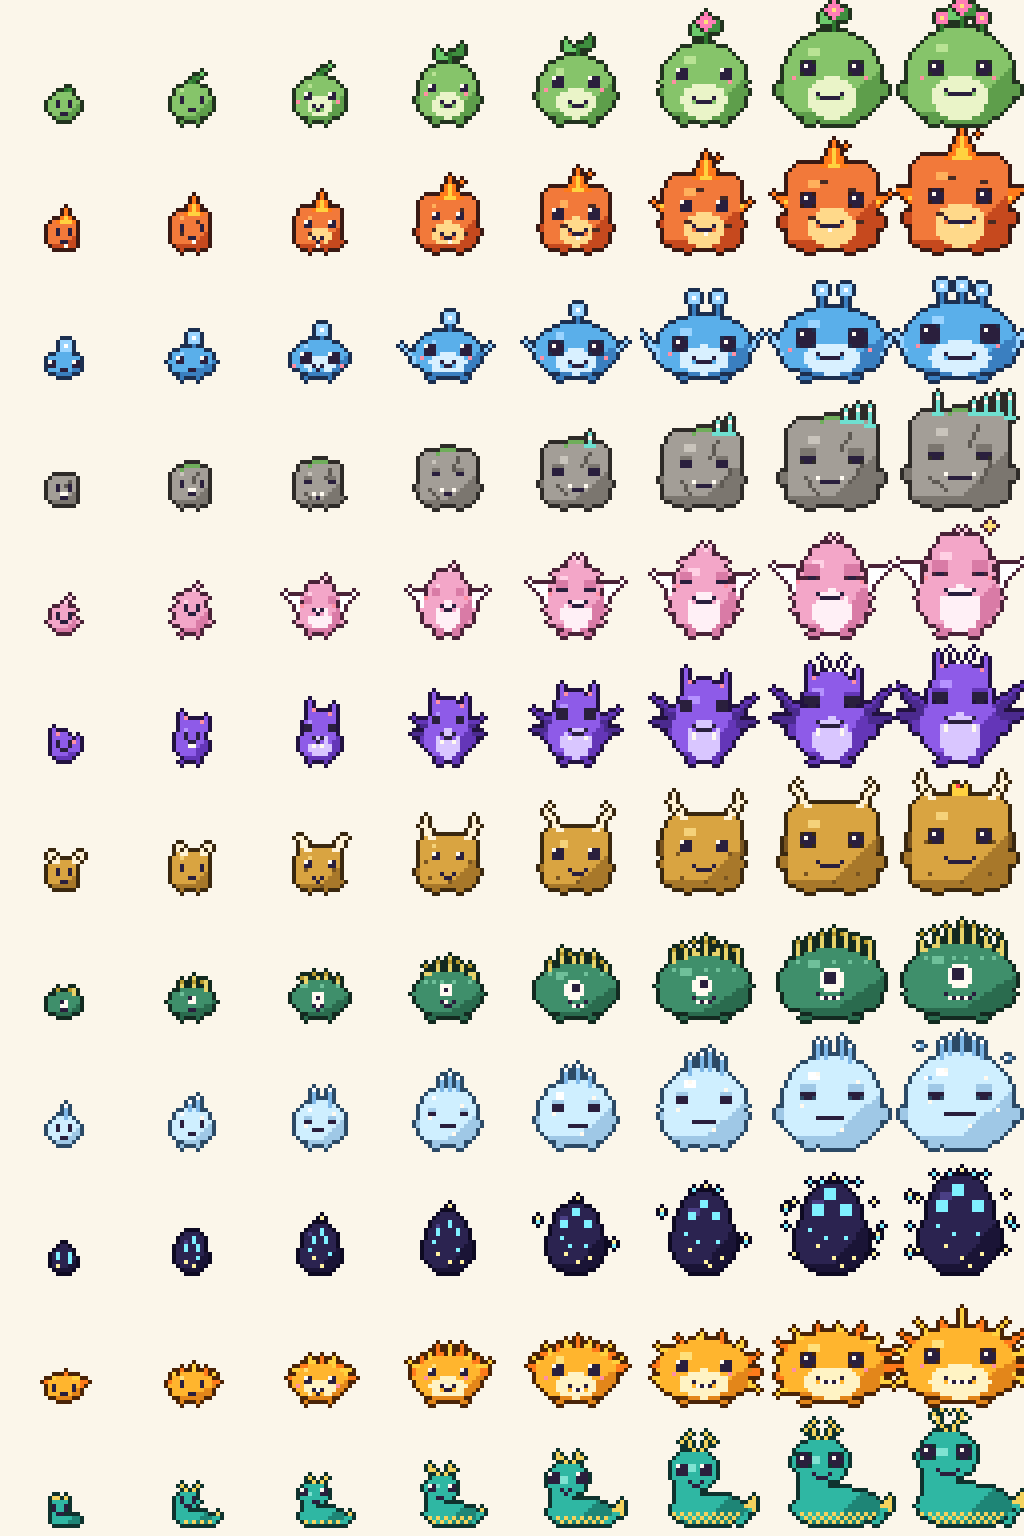
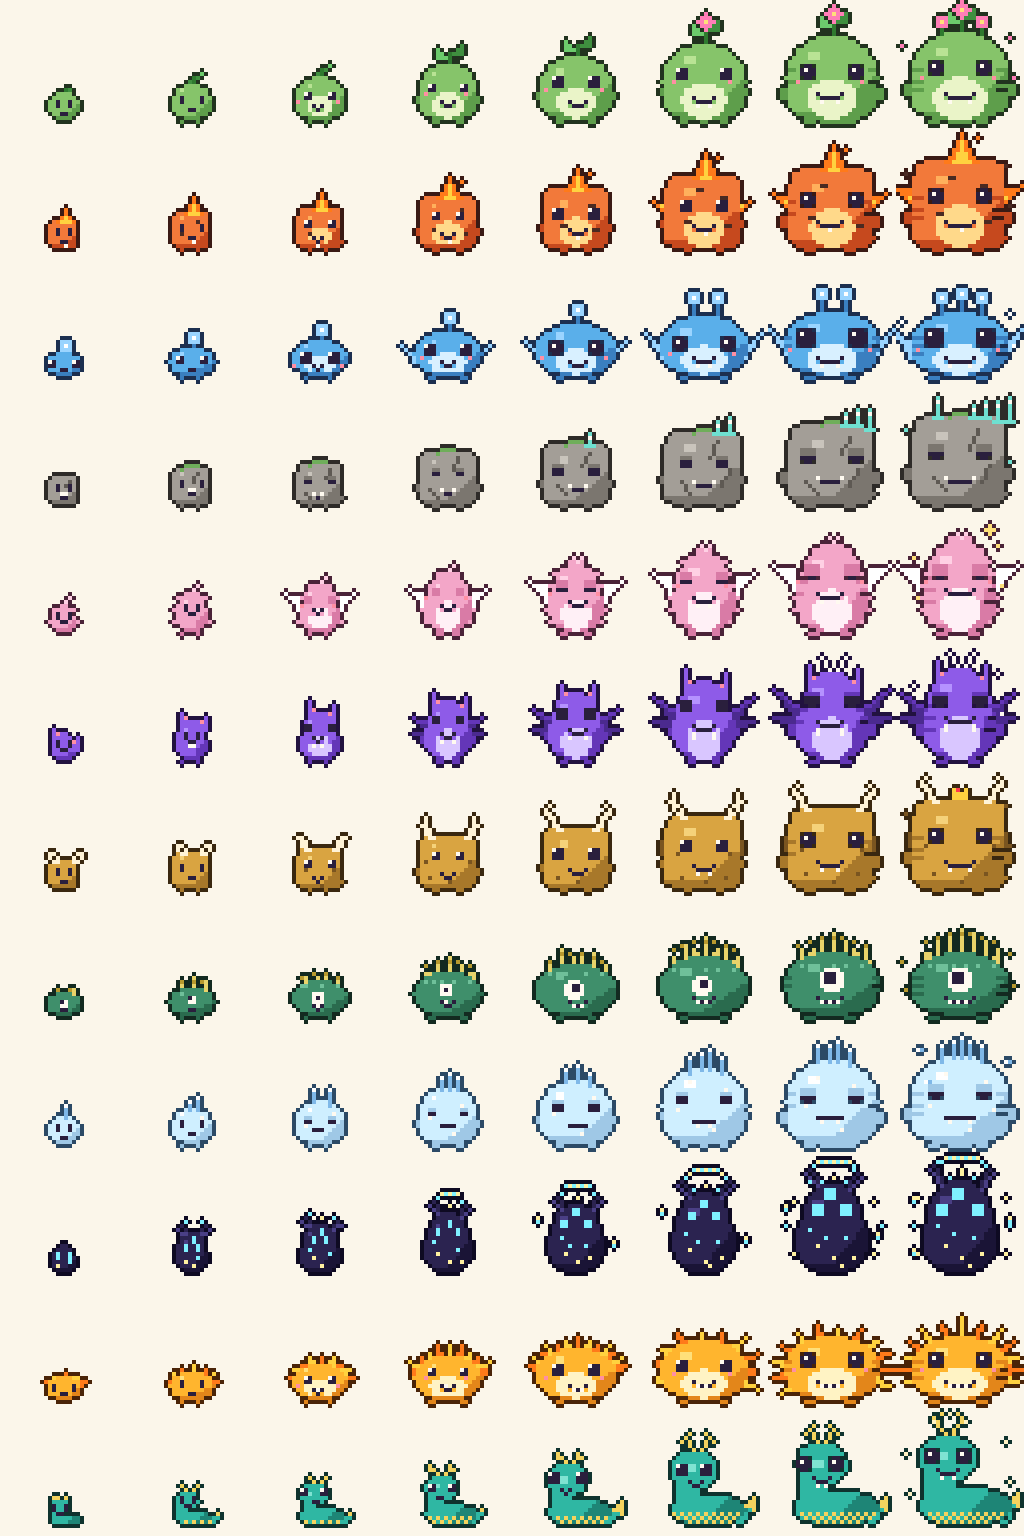
Art: late stages earn stripes, teeth and sparks; Voidling gets horns and a halo; big monsters stay in frame
Claude-Session: https://claude.ai/code/session_013R4m7pZapHsz5H48KLp8S1

diff --git a/art/generate.py b/art/generate.py
@@ -116,11 +116,11 @@ class Grid:
 # ---------------------------------------------------------------- bodies
 
 WIDTH = {
-    "blob":  [8, 10, 12, 15, 18, 21, 24, 26],
-    "chunk": [7, 9, 11, 14, 16, 19, 22, 24],
-    "tall":  [6, 8, 10, 12, 14, 16, 18, 20],
-    "wide":  [9, 11, 14, 17, 20, 23, 26, 28],
-    "wyrm":  [7, 9, 11, 13, 16, 19, 22, 24],
+    "blob":  [8, 10, 12, 15, 18, 21, 23, 25],
+    "chunk": [7, 9, 11, 14, 16, 19, 21, 23],
+    "tall":  [6, 8, 10, 12, 14, 16, 18, 19],
+    "wide":  [9, 11, 14, 17, 20, 22, 24, 25],
+    "wyrm":  [7, 9, 11, 13, 16, 19, 21, 23],
 }
 HEIGHT_F = {"blob": 0.9, "chunk": 0.95, "tall": 1.22, "wide": 0.66, "wyrm": 1.0}
 
@@ -240,8 +240,8 @@ def behind(g, sp, body, s, pal):
         for side in (-1, 1):
             ex = (L - 1) if side < 0 else (R + 1)
             g.tri(ex, mid - k, ex + side * (k + 1), mid - k - 1, ex, mid + 1, f)
-    if sp == "gloomfang" and s >= 4:                     # bat wings
-        k = 3 + (s - 4)
+    if sp == "gloomfang" and s >= 4:                     # bat wings, kept inside the frame
+        k = min(3 + (s - 4), int(body.left) - 1)
         for side in (-1, 1):
             ex = (L + 1) if side < 0 else (R - 1)
             tipx = ex + side * (k + 1)
@@ -414,6 +414,19 @@ def on_top(g, sp, body, s, pal):
                 g.set(hx + dx, t + dy, f2)
                 g.set(hx + dx + 1, t + dy, f)
     elif sp == "voidling":
+        if s >= 2:                                      # crescent horns
+            k = 1 + s // 2
+            for side in (-1, 1):
+                ex = hx + side * max(1, int(w * 0.22))
+                ey = body.head_top(ex)
+                g.line(ex, ey, ex + side * (k // 2 + 1), ey - k, pal["base"])
+                g.line(ex + side, ey, ex + side * (k // 2 + 2), ey - k + 1, pal["light"])
+                g.set(ex + side * (k // 2), ey - k - 1, f)
+        if s >= 4:                                      # a halo
+            r = max(2, int(w * 0.3))
+            for dx in range(-r, r + 1):
+                if abs(dx) != r or s >= 6:
+                    g.set(hx + dx, ht - 3 - (1 if abs(dx) < r else 0) - s // 3, f2 if dx % 2 == 0 else f)
         if s >= 5:
             orbs = [(-1, 0.25), (1, 0.6)] if s < 8 else [(-1, 0.2), (1, 0.45), (-1, 0.8)]
             for side, fr in orbs:
@@ -705,6 +718,9 @@ def draw_face(g, sp, body, s, mood, pal):
         if mk == "underbite":
             g.set(mx, base_y - 1, WHITE)
             g.set(mx + mw - 1, base_y - 1, WHITE)
+        if s >= 6 and mk in ("smile", "flat") and mw >= 5:      # big ones show a little tooth
+            g.set(mx + 1, base_y + 1, WHITE)
+            g.set(mx + mw - 2, base_y + 1, WHITE)
         if mk == "grin" and mw >= 3:
             for i in range(1, mw - 1, 2):
                 g.set(mx + i, base_y - 1 if mw < 5 else base_y, WHITE)
@@ -752,6 +768,28 @@ def to_feral(g, pal):
                 g.px[y][x] = d
 
 
+def elder(g, sp, body, s, pal):
+    """Marks every species earns late: stripes from Colossus, sparks around a Titan."""
+    if s >= 7 and body.family != "wyrm" and sp not in ("voidling", "gravelkin"):
+        for side in (-1, 1):
+            for i in range(2 + (s - 7)):
+                y = int(body.top + body.h * (0.42 + 0.13 * i))
+                r = body.row(y)
+                if not r:
+                    continue
+                x = r[0] if side < 0 else r[1]
+                for j in range(2 + (1 if s == 8 else 0)):
+                    if (x - side * j, y) in body.mask:
+                        g.set(x - side * j, y, pal["shade"] if g.get(x - side * j, y) != pal["shade"] else pal["outline"])
+    if s == 8 and sp not in ("voidling", "frostnip", "sunmaw"):
+        spark = pal["feat2"] if pal["feat2"] != pal["base"] else pal["light"]
+        for (dx, dy) in ((-2, 0.18), (1, 0.05), (-1, 0.62), (2, 0.5)):
+            x = int(body.left + dx) if dx < 0 else int(body.right + dx - 1)
+            y = int(body.top + body.h * dy)
+            if 0 <= x < N and g.get(x, y) is None:
+                g.set(x, y, spark)
+
+
 def make(sp, s, mood):
     cfg = SPECIES[sp]
     pal = cfg["pal"]
@@ -759,6 +797,7 @@ def make(sp, s, mood):
     g = Grid()
     behind(g, sp, body, s, pal)
     paint_body(g, sp, body, s, pal)
+    elder(g, sp, body, s, pal)
     on_top(g, sp, body, s, pal)
     if mood == "feral":
         to_feral(g, pal)

diff --git a/docs/GAME.md b/docs/GAME.md
@@ -162,8 +162,9 @@ Lines are pre-written and chosen offline. No AI at runtime.
 |---|---|
 | Voice | Needy, Gremlin, Anxious, Deadpan, Sleepy, Smug, Noble, Cryptic |
 | Size | Tiny (stages 1 to 2) speaks in lower case. Mid (3 to 5) as written. Giant (6 to 8) speaks in capitals |
-| Situation | Idle states (fed, restless, feral, rest day, hibernating, night, morning), events (fed, merged, egg, hatched, evolved, dropped a stage, treat, favourite food, feast, CI red, CI green again, streak milestone, level up, came back, poked, benched, statue, revived, fall, pantry low, new day) |
-| Variables | The monster's name, streak, hours since the last ship, the locked app, chow |
+| Situation | Idle: fed, hungry, restless, feral, rest day, hibernating, night, morning, streak pride, CI red, pantry low, egg. Events: fed by a push, merged, hatched, grew, shrank, treat, favourite treat, no treats left, feast, calmed, streak milestone, level up, poked, benched, woken from stone, truce, new egg, twin, the lock screen |
+| Conditions | A line can be limited to a size, a species, a minimum streak or a number of stars |
+| Variables | The monster's name, streak, awake hours since the last ship, hours to the next change, the locked app, chow |
 
 Selection: the lines that fit the situation, voice and conditions form a cycle. Lines written for that voice or condition come round twice as often as generic ones, and the same line never appears twice in a row. The choice is a pure function of a seed, so the home screen and the widget always agree. The lead monster speaks on the home screen, the widget, notifications and the lock screen.
 
